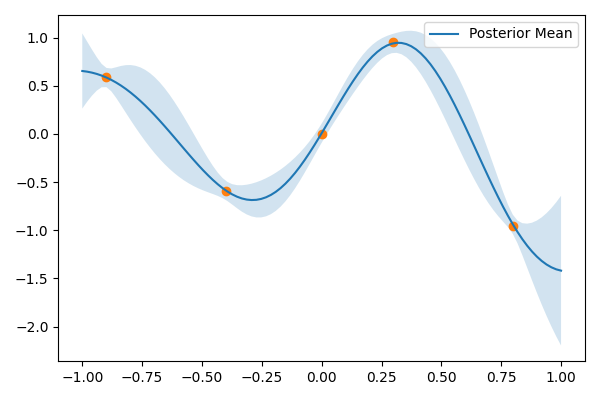
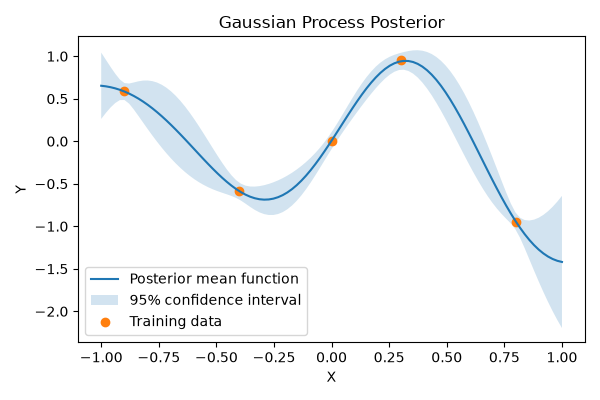
Fix requirements, use Cholesky and seeded RNG, improve plots and docs

diff --git a/6p4-gaussian-process/build.py b/6p4-gaussian-process/build.py
@@ -3,6 +3,8 @@ from pathlib import Path
 import numpy as np
 import matplotlib.pyplot as plt
 
+rng = np.random.default_rng(42)
+
 FIGURES = Path(__file__).parent / 'figures'
 FIGURES.mkdir(exist_ok=True)
 
@@ -18,12 +20,14 @@ def kernel(x1, x2, length_scale=0.4):
 X = np.linspace(-1, 1, 100)
 K = kernel(X, X) + 1e-8 * np.eye(len(X))
 
-samples = np.random.multivariate_normal(np.zeros(len(X)), K, size=5)
+samples = rng.multivariate_normal(np.zeros(len(X)), K, size=5)
 
 plt.figure(figsize=(6,4))
-for s in samples:
-    plt.plot(X, s)
-plt.title('GP Prior Samples')
+for i, s in enumerate(samples):
+   plt.plot(X, s)
+plt.title('Gaussian Process Prior', size=12)
+plt.xlabel('X', size=10)
+plt.ylabel('Y', size=10)
 plt.tight_layout()
 plt.savefig(FIGURES / 'prior.png')
 plt.close()
@@ -36,15 +40,23 @@ Ks = kernel(X_train, X)
 K_train = kernel(X_train, X_train) + 0.05**2*np.eye(len(X_train))
 Kss = kernel(X, X)
 
-Kinv = np.linalg.inv(K_train)
-mu = Ks.T @ Kinv @ y_train
-cov = Kss - Ks.T @ Kinv @ Ks
+# Cholesky decomposition
+L = np.linalg.cholesky(K_train)
+alpha = np.linalg.solve(L.T, np.linalg.solve(L, y_train))
+mu = Ks.T @ alpha
+
+v = np.linalg.solve(L, Ks)
+cov = Kss - v.T @ v
 std = np.sqrt(np.maximum(np.diag(cov), 0))
 
 plt.figure(figsize=(6,4))
-plt.plot(X, mu, label='Posterior Mean')
-plt.fill_between(X, mu-2*std, mu+2*std, alpha=0.2)
-plt.scatter(X_train, y_train)
+plt.plot(X, mu, label='Posterior mean function')
+plt.xlabel('X', size=10)
+plt.ylabel('Y', size=10)
+plt.title('Gaussian Process Posterior', size=12)
+plt.fill_between(X, mu-2*std, mu+2*std, alpha=0.2, label='95% confidence interval')
+plt.scatter(X_train, y_train, label='Training data')
 plt.legend()
 plt.tight_layout()
 plt.savefig(FIGURES / 'posterior.png')
+plt.close()

diff --git a/6p4-gaussian-process/readme.md b/6p4-gaussian-process/readme.md
@@ -1,13 +1,39 @@
 # Gaussian Process
-
 Minimal Gaussian Process regression implementation, as introduced in *Pattern Recognition and Machine Learning* by \
 Christopher M. Bishop, section 6.4.
 
 ## Run
-
 `python build.py`
 
-## Figures
+## Foundations
+- Prior: $f(x) \sim \mathcal{GP}(0, k(x, x'))$
+- Radial basis function kernel $RBF$: $k(x, x') = \exp\left(-\frac{(x - x')^2}{2\ell^2}\right)$
+- Noisy observations: $y = f(x) + \epsilon, \epsilon \sim \mathcal{N}(0, \sigma_n^2)$
+
+For training inputs $X$ and test inputs $X_*$, define:
+- $K = k(X, X)$: train-train kernel matrix $(n \times n)$
+- $K_* = k(X, X_*)$: train-test cross-kernel matrix $(n \times m)$
+- $K_{**} = k(X_*, X_*)$: test-test kernel matrix $(m \times m)$
+
+Posterior predictive distribution at $X_*$:
+- Posterior mean: $\mu_* = K_*^\top (K + \sigma_n^2 I)^{-1} y$
+- Posterior covariance: $\Sigma_* = K_{**} - K_*^\top (K + \sigma_n^2 I)^{-1} K_*$
+
+## Implementation
+This implementation uses:
+- NumPy for linear algebra
+- Cholesky decomposition to solve linear systems stably (instead of explicit inversion)
+- Matplotlib for visualization
+
+## Complexity
+- Training: $O(n³)$
+- Memory: $O(n²)$
+
+The kernel matrix must be factorized during training,
+which limits exact Gaussian Processes to small datasets.
+
+## Results
+Shown below are samples from the Gaussian Process prior and the posterior predictive distribution after observing data.
 
 ### Prior
 ![GP Prior](figures/prior.png)
@@ -15,12 +41,11 @@ Christopher M. Bishop, section 6.4.
 ### Posterior
 ![GP Posterior](figures/posterior.png)
 
-## Theoretical minimum
+Interpretation: mean = prediction, $\pm2\sigma$ band = uncertainty.
 
-- **Prior:** \( f(x)\sim\mathcal{GP}(0,k(x,x')) \)
-- **Kernel (RBF):** \( k(x,x')=\exp\!\left(-\frac{(x-x')^2}{2\ell^2}\right) \)
-- **Noisy observations:** \( y=f(x)+\epsilon,\ \epsilon\sim\mathcal{N}(0,\sigma_n^2) \)
-- **Posterior mean:** \( \mu_* = K_*^\top (K+\sigma_n^2I)^{-1}y \)
-- **Posterior covariance:** \( \Sigma_* = K_{**}-K_*^\top (K+\sigma_n^2I)^{-1}K_* \)
-
-Interpretation: mean = prediction, \(\pm2\sigma\) band = uncertainty.
+## Takeaways
+- Gaussian Process regression is a non-parametric Bayesian approach to regression.
+- Predictions include both a mean estimate and an uncertainty estimate.
+- Uncertainty decreases near observations and increases away from data.
+- The kernel encodes prior assumptions about smoothness.
+- Computational cost scales cubically with the number of training samples.

diff --git a/readme.md b/readme.md
@@ -8,7 +8,7 @@ Advanced topics are explored in *Deep Learning Foundations and Concepts* by Chri
 
 ## Selected Topics
 
-### Pattern Recognition and Machiene Learning - Bishop
+### Pattern Recognition and Machine Learning - Bishop
 
 - [ ] 3.3 Bayesian linear regression
 - [ ] 5.1 Regularization in neural networks
@@ -21,14 +21,9 @@ Advanced topics are explored in *Deep Learning Foundations and Concepts* by Chri
 - [ ] 12.1 Principal component analysis 
 - [ ] 13.1 Hidden Markov models 
 
-### Deep Learning, Foundations and Concnepts - Bishop and Bishop
+### Deep Learning, Foundations and Concepts - Bishop and Bishop
 
 - [ ] Feed-forward neural networks
 - [ ] Backpropagation
 - [ ] Convolutional neural networks
 - [ ] Transformers
-
-## Build
-```bash
-python 6p4-gaussian-process/build.py
-```
